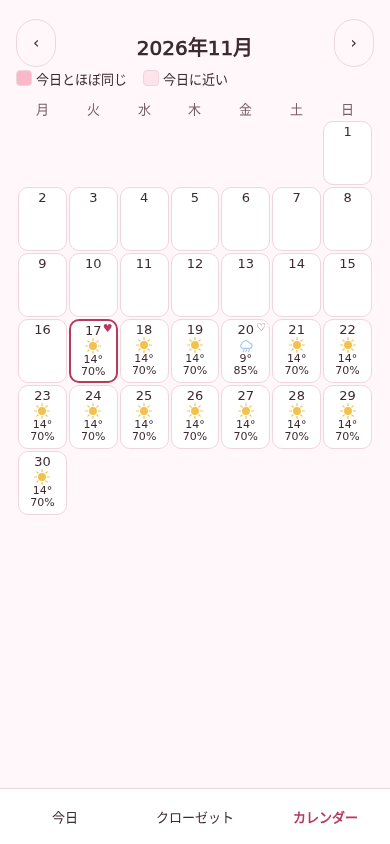
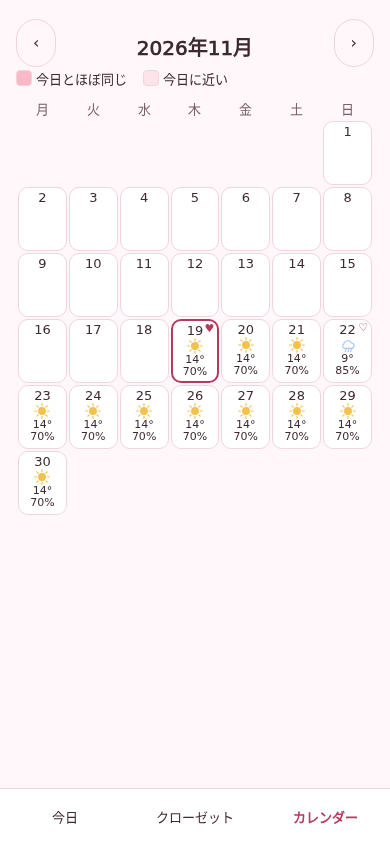
アバターを写真に近いリアルな絵にする (CC0 の MakeHuman の人体を Blender で描いた WebP) (#22) (#24)

diff --git a/src/Avatar.tsx b/src/Avatar.tsx
@@ -1,4 +1,4 @@
-// アバターの台。正面に固定したすらっとした等身の姿に、服の写真をそのまま (曲げずに) 重ねる。
+// アバターの台。正面に固定したすらっとした等身の姿 (写真に近い 3D の絵、#22) に、服の写真をそのまま (曲げずに) 重ねる。
 // 台の大きさは CSS で固定 (--stage-w・--stage-h)。中身の数で変わらない。
 // 顔写真は使わない。回さない (idea.md の「デザイン」)。
 import { forwardRef } from "react";
@@ -6,58 +6,12 @@ import { api, type Clothing } from "./client";
 import { SLOTS } from "./outfit";
 import { Photo } from "./Photo";
 
-/** 体の絵 (repo の中の SVG。外部から読まない)。 */
+/**
+ * 体の絵。CC0 の 3D の人体 (MakeHuman) を Blender で正面から描いたもの (public/avatar/LICENSE.md)。
+ * repo の中に置き、外部から読まない。肩・腰・足首の位置は前の絵と同じ枠 (outfit.ts の SLOTS)。
+ */
 function Body() {
-  return (
-    <svg className="body" viewBox="0 0 200 400" aria-hidden="true" focusable="false">
-      <defs>
-        <linearGradient id="skin" x1="0" x2="1" y1="0" y2="0">
-          <stop offset="0" stopColor="#e9b9a0" />
-          <stop offset="0.45" stopColor="#f8d9c6" />
-          <stop offset="1" stopColor="#e2ad93" />
-        </linearGradient>
-        <linearGradient id="base" x1="0" x2="1" y1="0" y2="0">
-          <stop offset="0" stopColor="#e7e1e4" />
-          <stop offset="0.5" stopColor="#fbf8f9" />
-          <stop offset="1" stopColor="#ded6da" />
-        </linearGradient>
-        <radialGradient id="hair" cx="0.5" cy="0.3" r="0.7">
-          <stop offset="0" stopColor="#5b4038" />
-          <stop offset="1" stopColor="#2f201c" />
-        </radialGradient>
-        <radialGradient id="floor" cx="0.5" cy="0.5" r="0.5">
-          <stop offset="0" stopColor="#000" stopOpacity="0.18" />
-          <stop offset="1" stopColor="#000" stopOpacity="0" />
-        </radialGradient>
-      </defs>
-      <ellipse cx="100" cy="378" rx="46" ry="8" fill="url(#floor)" />
-      {/* 腕 */}
-      <path d="M72 82 Q60 86 58 112 L54 162 L52 200 Q55 212 61 205 L65 162 L71 118 Z" fill="url(#skin)" />
-      <path
-        d="M128 82 Q140 86 142 112 L146 162 L148 200 Q145 212 139 205 L135 162 L129 118 Z"
-        fill="url(#skin)"
-      />
-      {/* 脚 */}
-      <path d="M78 188 L99 188 L97 280 L95 362 L85 364 L83 280 Z" fill="url(#skin)" />
-      <path d="M101 188 L122 188 L117 280 L115 364 L105 362 L103 280 Z" fill="url(#skin)" />
-      <ellipse cx="89" cy="368" rx="9" ry="5" fill="#d9a58c" />
-      <ellipse cx="111" cy="368" rx="9" ry="5" fill="#d9a58c" />
-      {/* 首と胴 */}
-      <rect x="93" y="58" width="14" height="18" rx="5" fill="url(#skin)" />
-      <path
-        d="M70 80 Q100 70 130 80 L127 120 Q120 148 118 160 L124 194 L76 194 L82 160 Q80 148 73 120 Z"
-        fill="url(#skin)"
-      />
-      {/* 下着の層 (服がないときも落ち着いて見えるように) */}
-      <path d="M80 92 Q100 86 120 92 L118 150 L82 150 Z" fill="url(#base)" />
-      <path d="M78 168 L122 168 L124 200 L101 204 L99 204 L76 200 Z" fill="url(#base)" />
-      {/* 頭 */}
-      <ellipse cx="100" cy="40" rx="17" ry="21" fill="url(#skin)" />
-      <path d="M82 40 Q80 14 100 14 Q121 14 118 40 Q116 26 100 24 Q86 26 82 40 Z" fill="url(#hair)" />
-      <path d="M82 38 Q78 62 84 74 L88 52 Z" fill="url(#hair)" />
-      <path d="M118 38 Q122 62 116 74 L112 52 Z" fill="url(#hair)" />
-    </svg>
-  );
+  return <img className="body" src="/avatar/body.webp" alt="" width={200} height={400} draggable={false} />;
 }
 
 export interface StageProps {

diff --git a/tests/unit/avatar.test.tsx b/tests/unit/avatar.test.tsx
@@ -1,0 +1,69 @@
+// @vitest-environment happy-dom
+import { readdirSync, readFileSync, statSync } from "node:fs";
+import { act } from "react";
+import { createRoot } from "react-dom/client";
+import { afterEach, describe, expect, test } from "vitest";
+import { Stage } from "../../src/Avatar";
+import { SLOTS } from "../../src/outfit";
+
+afterEach(() => document.body.replaceChildren());
+
+async function stage(): Promise<HTMLElement> {
+  const el = document.createElement("div");
+  document.body.appendChild(el);
+  await act(async () =>
+    createRoot(el).render(
+      <Stage worn={[{ id: "t1", kind: "top", warmth: 2, label: "白T", createdAt: 1 }]} />,
+    ),
+  );
+  return el;
+}
+
+describe("リアルなアバター (#22)", () => {
+  test("AC-22-1: 体は手描きの図形ではなく repo の中の絵。出どころとライセンス (CC0) が LICENSE.md にある", async () => {
+    const el = await stage();
+    const body = el.querySelector("img.body");
+    expect(body?.getAttribute("src")).toBe("/avatar/body.webp");
+    expect(el.querySelector("svg.body")).toBeNull();
+    const license = readFileSync("public/avatar/LICENSE.md", "utf8");
+    expect(license).toContain("CC0 1.0 Universal");
+    expect(license).toContain("https://github.com/makehumancommunity/makehuman");
+    expect(license).toContain("body.webp");
+  });
+
+  test("AC-22-2: 絵は自分の origin から読み (CSP のまま)、WebP で 400KB 以下。台の大きさは変わらない", async () => {
+    const el = await stage();
+    expect(el.querySelector("img.body")?.getAttribute("src")).toMatch(/^\/[^/]/);
+    const file = "public/avatar/body.webp";
+    expect(statSync(file).size).toBeLessThanOrEqual(400 * 1024);
+    const head = readFileSync(file).subarray(0, 12);
+    expect(head.subarray(0, 4).toString("latin1")).toBe("RIFF");
+    expect(head.subarray(8, 12).toString("latin1")).toBe("WEBP");
+    const css = readFileSync("src/style.css", "utf8");
+    expect(css).toContain("--stage-w: 200px;");
+    expect(css).toContain("--stage-h: 400px;");
+  });
+
+  test("AC-22-3: 服を重ねる枠は、絵の肩 (約 20%)・腰 (約 44%)・足首 (約 89%) に合う", () => {
+    const { top, bottom, shoes } = SLOTS as Record<
+      "top" | "bottom" | "shoes",
+      { top: number; height: number }
+    >;
+    // トップスは肩の少し上から腰の下まで
+    expect(top.top).toBeLessThanOrEqual(19.8);
+    expect(top.top + top.height).toBeGreaterThanOrEqual(43.5);
+    // ボトムスは腰から足首まで
+    expect(bottom.top).toBeLessThanOrEqual(44.6);
+    expect(bottom.top + bottom.height).toBeGreaterThanOrEqual(86);
+    // くつは足首から足の裏 (93%) まで
+    expect(shoes.top).toBeLessThanOrEqual(89.2);
+    expect(shoes.top + shoes.height).toBeGreaterThanOrEqual(93);
+  });
+
+  test("AC-22-4: 実在の人の写真・顔写真を使っていない (置いてあるのは描いた絵とライセンスだけ)", () => {
+    expect(readdirSync("public/avatar").sort()).toEqual(["LICENSE.md", "body.webp"]);
+    expect(readFileSync("public/avatar/LICENSE.md", "utf8")).toContain(
+      "実在の人の写真・顔写真は使っていない",
+    );
+  });
+});

diff --git a/src/style.css b/src/style.css
@@ -183,6 +183,8 @@ input {
   overflow: hidden;
 }
 .stage .body {
+  object-fit: contain;
+  pointer-events: none;
   position: absolute;
   inset: 0;
   width: 100%;

diff --git a/docs/architecture.md b/docs/architecture.md
@@ -65,4 +65,5 @@ Cloudflare で動くのは版固定の wrangler だけ (工場の書いたコー
 - 2026-11-15 服は写真で登録 (持ち主の指定)。R2 は無料でもカードが要るので、D1 に 1 枚 300KB まで
 - 2026-11-17 ラベルは今は服に 1 つ (`clothes.label`)。複数のラベル (labels 表) は migrations の変更なので、要ると分かったら人に頼む
 - 2026-11-17 アバターは今は repo の中の SVG (正面・すらっとした等身)。CC0 の 3D モデルから作った正面の姿への置きかえは次の版
+- 2026-11-19 アバターの体を CC0 の 3D の人体 (MakeHuman の base mesh と体型の target) を Blender (Cycles、正面の正投影) で描いた WebP に置きかえた (#22)。枠は前の SVG と同じ (頭のてっぺん 3.5%・足の裏 93%) にそろえたので、`SLOTS` は変えていない。描き出しのスクリプトは repo に置かない (使い捨て。手順は `public/avatar/LICENSE.md`)
 - 2026-11-17 先の日のコーデは今の `outfits` に未来の日付で置く (migrations を変えない)。予報は Open-Meteo の上限の 16 日 (今日を含む) を 1 回で読む。それより先 (例年の値)・旅行先の市は次の版

diff --git a/docs/design-system.md b/docs/design-system.md
@@ -17,7 +17,7 @@
 字と地の組 (`TEXT_PAIRS`) は、どのテーマでも 4.5:1 以上 (`tests/unit/theme.test.ts`)。新しいテーマも同じ検査を通す。
 
 ## 部品
-- **アバターの台** (`Stage`): 正面に固定した体の絵に、切り抜いた服の写真を種類ごとの場所 (`SLOTS`) に重ねる。写真は曲げない。今日の画面とカレンダーの下見で使う
+- **アバターの台** (`Stage`): 正面に固定した体の絵 (CC0 の MakeHuman の人体を Blender で描いた `public/avatar/body.webp`、400×800、背景は透明。出どころは `public/avatar/LICENSE.md`) に、切り抜いた服の写真を種類ごとの場所 (`SLOTS`) に重ねる。写真は曲げない。今日の画面とカレンダーの下見で使う
 - **ラベルの行** (`LabelRow`): 台の下の高さ固定 (32px) の 1 行。3 つまで、残りは「+N」。台には重ねない
 - **暖かさゲージ** (`GaugeView`): 寒い・ちょうどいい・暑いの帯とつまみ。数字は出さない
 - **棚** (クローゼット): 種類のタブ (トップス・ボトムス・アウター・くつ・こもの) と服のカード。カードはタップで着る・台までドラッグで着る

diff --git a/public/avatar/LICENSE.md b/public/avatar/LICENSE.md
@@ -1,0 +1,11 @@
+# アバターの体 (body.webp) の出どころとライセンス
+
+- 元の 3D の人体: MakeHuman の base mesh (`makehuman/data/3dobjs/base.obj`) と体型の target
+  (`targets/macrodetails/universal-female-young-averagemuscle-minweight.target` を 1.0、
+  `targets/macrodetails/height/female-young-averagemuscle-minweight-maxheight.target` を 0.6)。
+  髪は体の頭の面を押し出した殻、下着の層は base mesh の `helper-tights`
+- 出どころ: https://github.com/makehumancommunity/makehuman (`LICENSE.md` の「C. The license for the bundled assets」)
+- ライセンス: **CC0 1.0 Universal** (base mesh・target は MakeHuman に同梱の素材で、CC0 で公開されている。`LICENSE.ASSETS.md`)
+- 描き方: Blender 5.1.1 (Cycles、正面の正投影、背景は透明) で 400×800 に描き、WebP にした (2026-11-19、wakuwaku factory)。
+  肌・髪・布は Blender の手続きの材質 (画像の texture は使っていない)
+- 実在の人の写真・顔写真は使っていない。この絵も CC0 として扱ってよい
